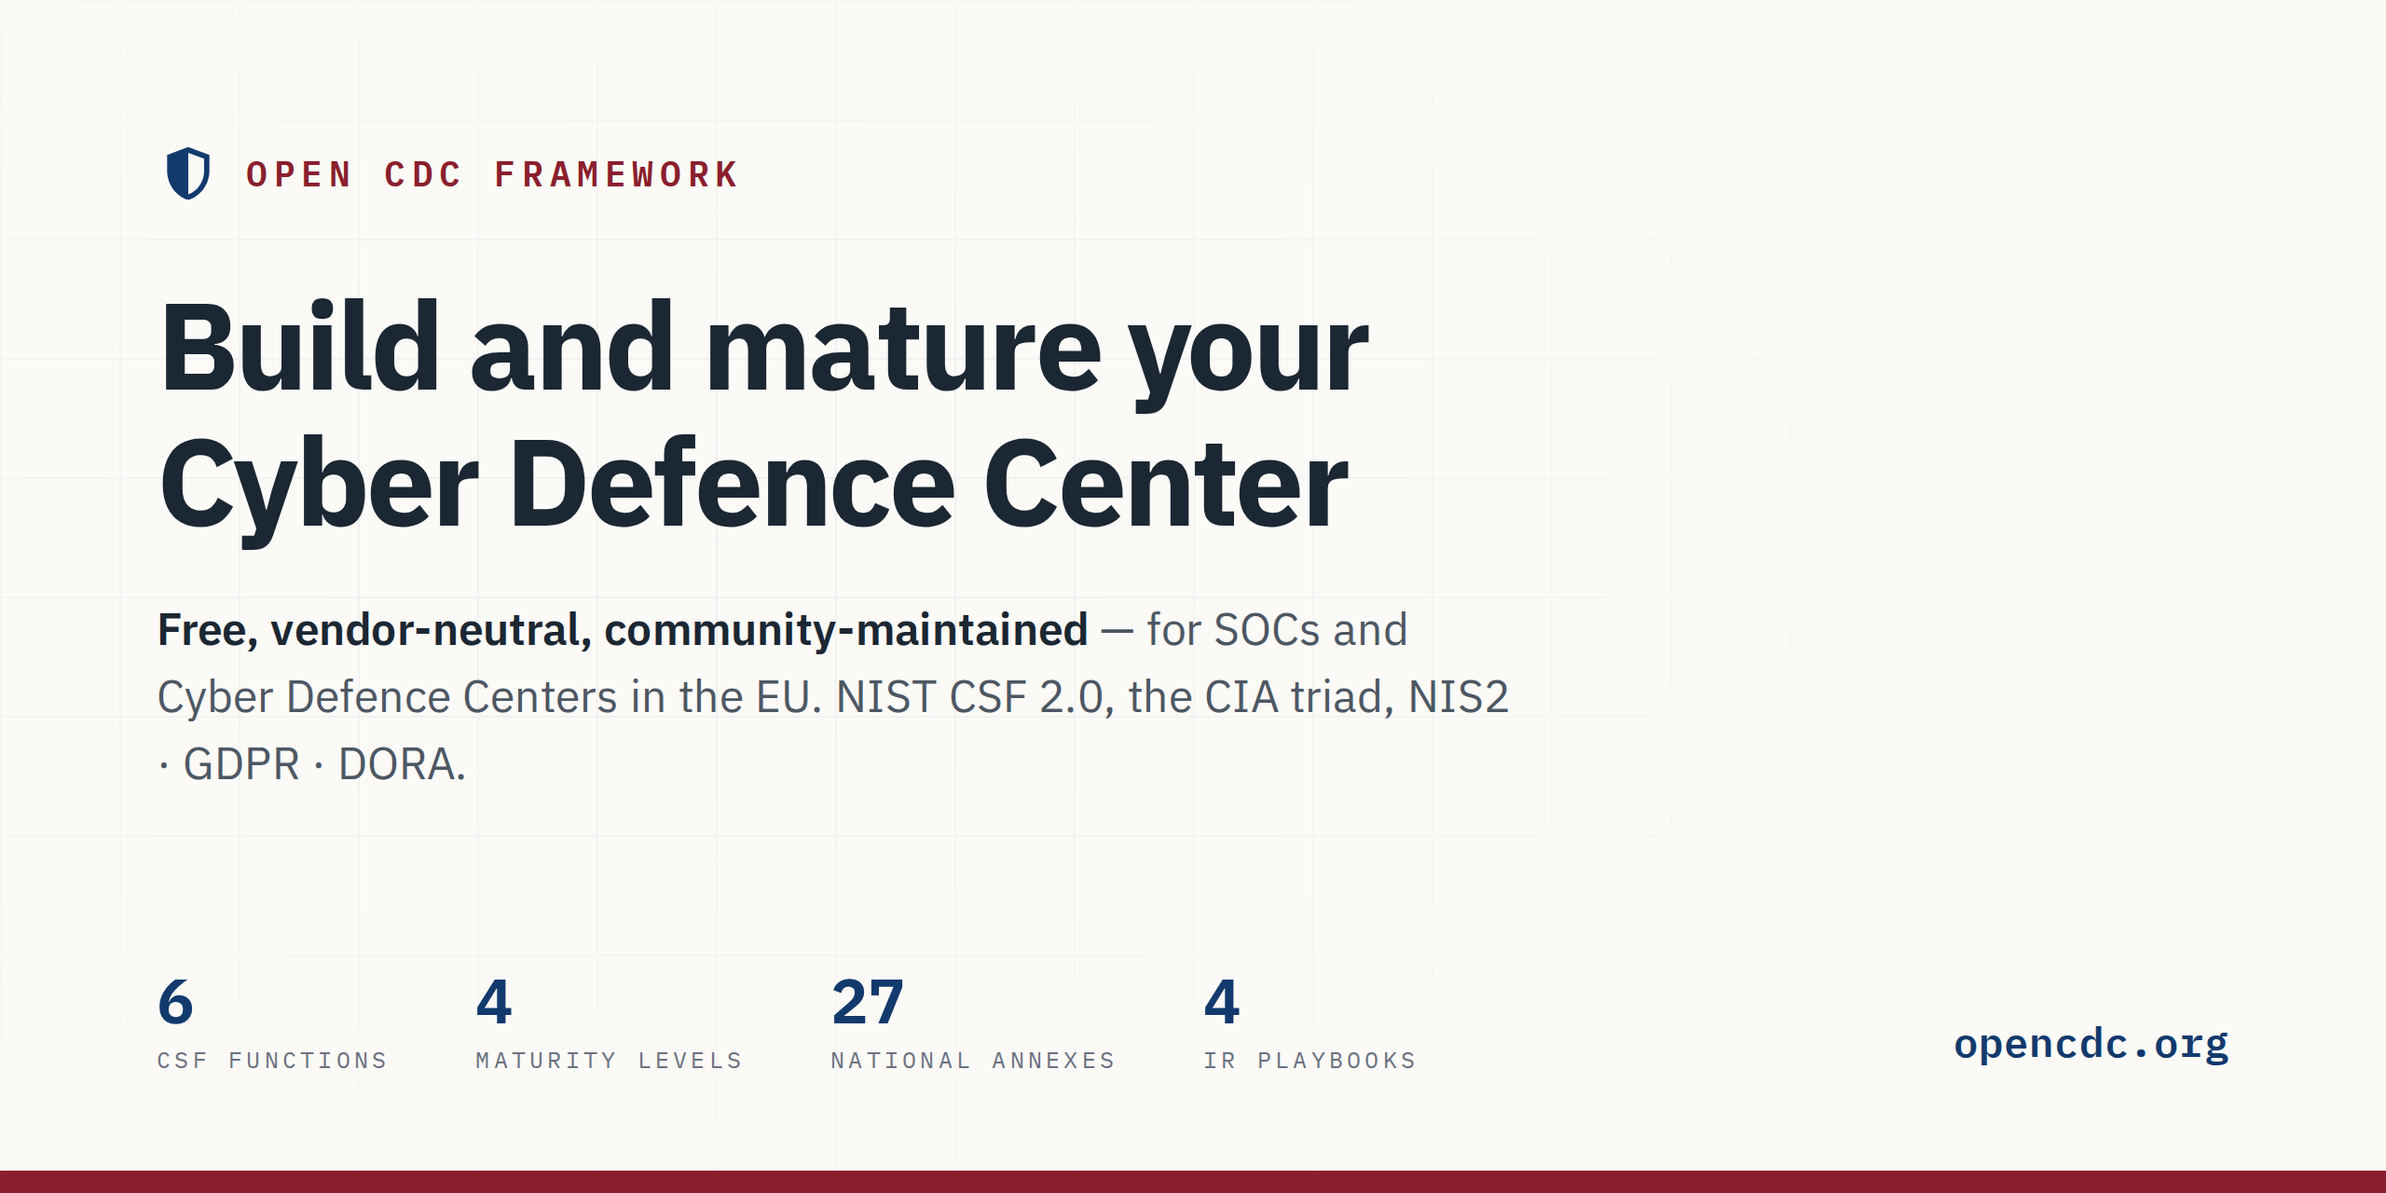
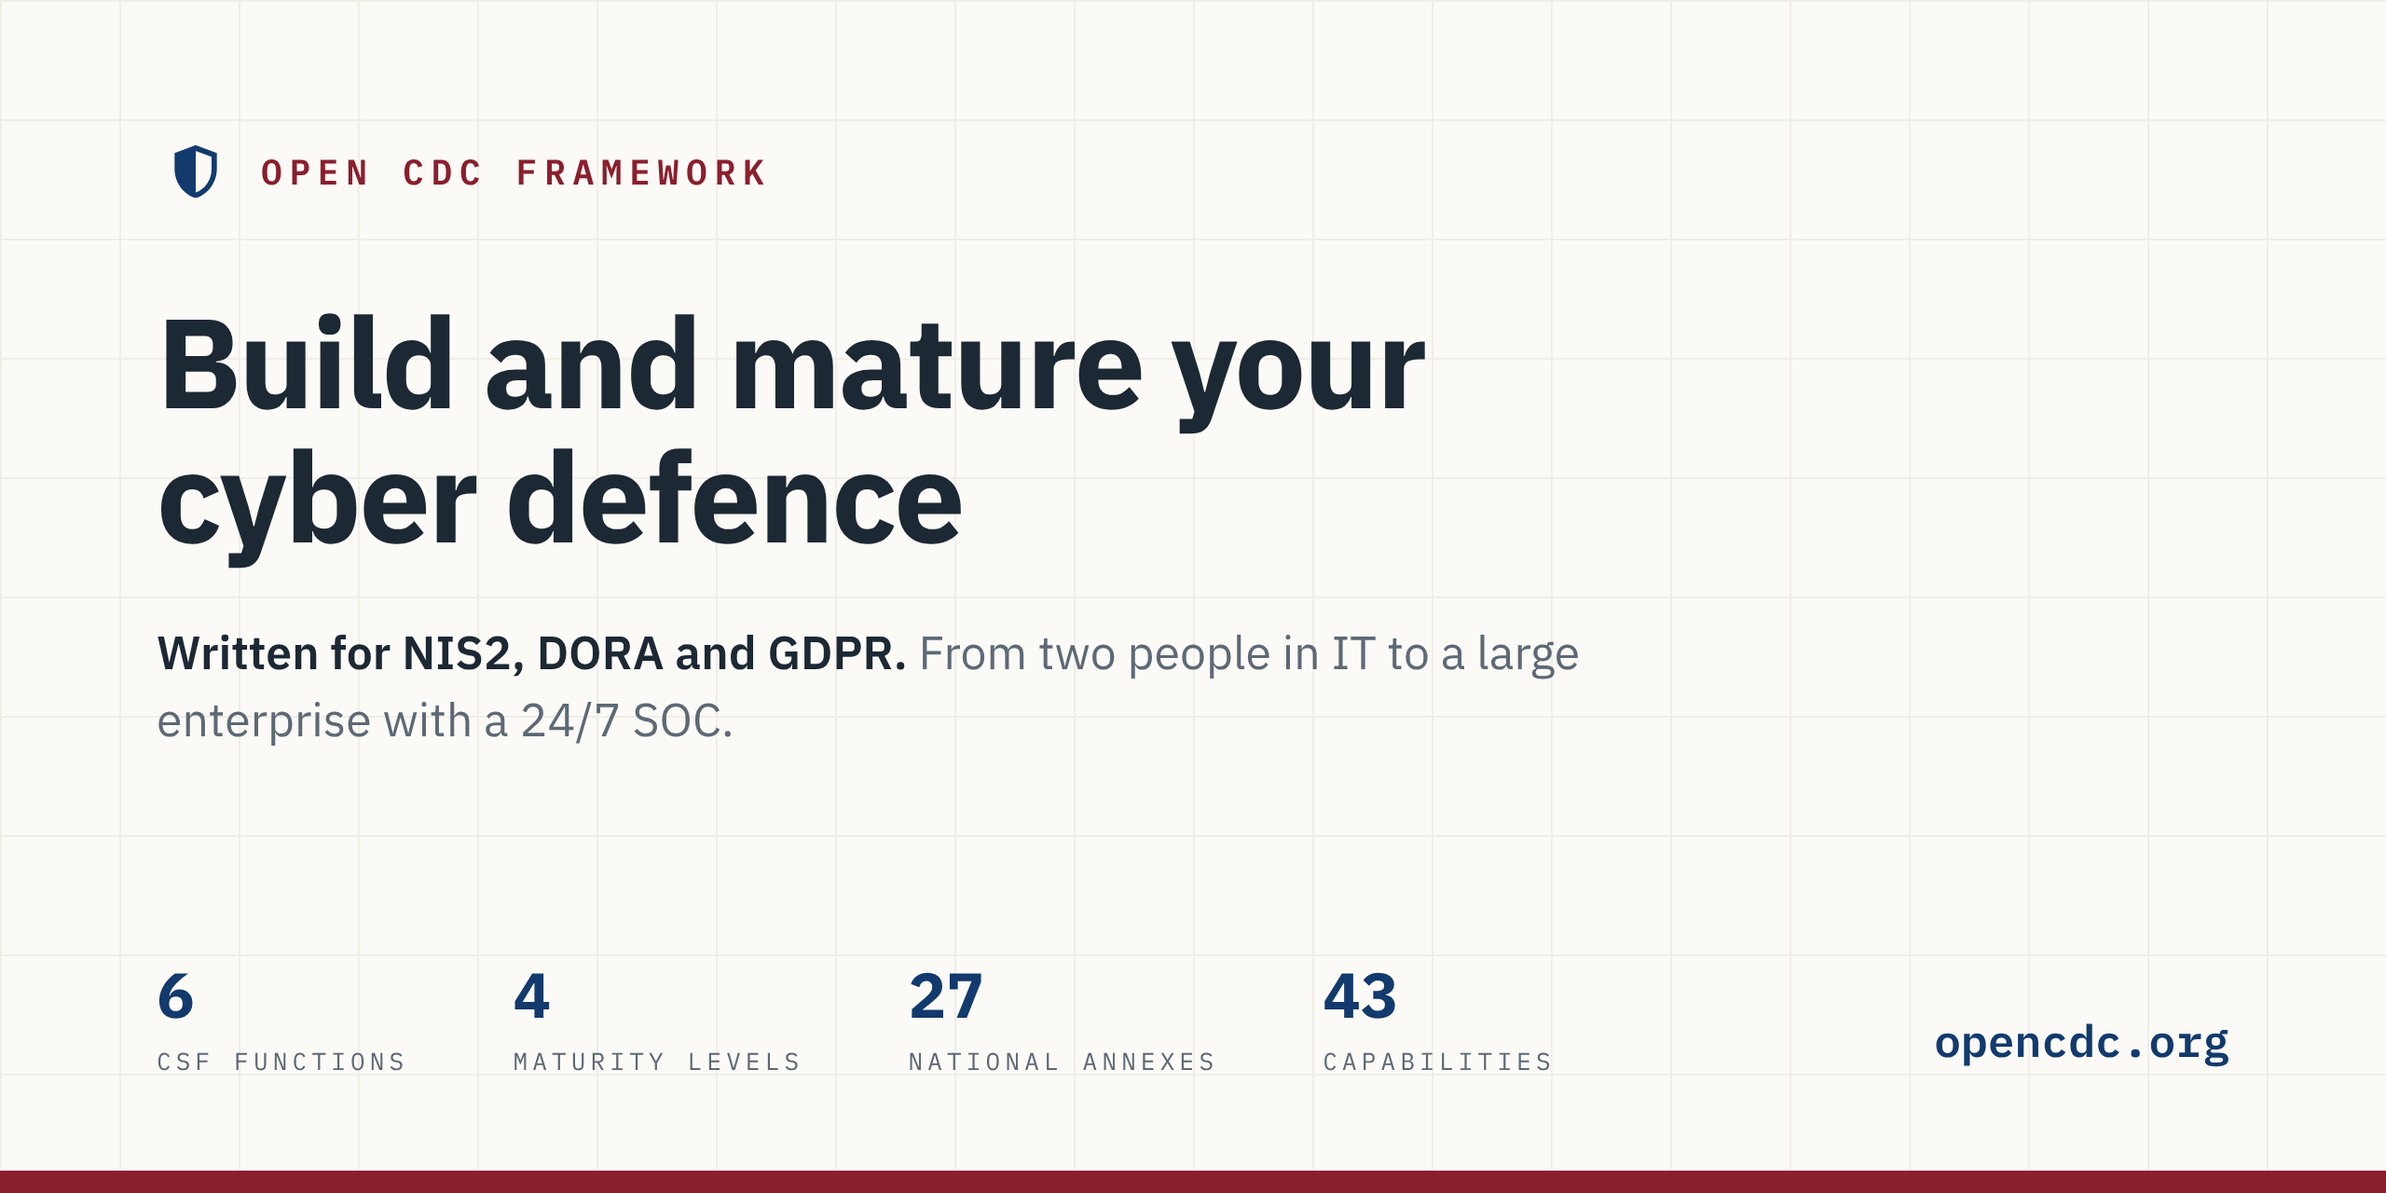
Release v1.4.1
Clearer landing page opening, centred section headings, current link preview card, dashes out of tool text, corrected annex list in PUBLISHING.

diff --git a/tools/regulatory-profile.html b/tools/regulatory-profile.html
@@ -196,15 +196,15 @@
 <aside aria-label="Law selection">
   <h2>EU-wide instruments</h2>
   <label class="law"><input type="checkbox" data-toggle="nis2" checked>
-    <span><b>NIS2 <span class="stamp">NIS2</span></b><small>Directive (EU) 2022/2555 — essential &amp; important entities</small></span></label>
+    <span><b>NIS2 <span class="stamp">NIS2</span></b><small>Directive (EU) 2022/2555: essential &amp; important entities</small></span></label>
   <label class="law"><input type="checkbox" data-toggle="gdpr" checked>
-    <span><b>GDPR <span class="stamp">GDPR</span></b><small>Regulation (EU) 2016/679 — applies to virtually all CDCs</small></span></label>
+    <span><b>GDPR <span class="stamp">GDPR</span></b><small>Regulation (EU) 2016/679: applies to virtually all CDCs</small></span></label>
   <label class="law"><input type="checkbox" data-toggle="dora">
-    <span><b>DORA <span class="stamp">DORA</span></b><small>Regulation (EU) 2022/2554 — financial entities</small></span></label>
+    <span><b>DORA <span class="stamp">DORA</span></b><small>Regulation (EU) 2022/2554: financial entities</small></span></label>
   <label class="law"><input type="checkbox" data-toggle="cra">
-    <span><b>Cyber Resilience Act <span class="stamp">CRA</span></b><small>Regulation (EU) 2024/2847 — products with digital elements</small></span></label>
+    <span><b>Cyber Resilience Act <span class="stamp">CRA</span></b><small>Regulation (EU) 2024/2847: products with digital elements</small></span></label>
   <label class="law"><input type="checkbox" data-toggle="cer">
-    <span><b>CER <span class="stamp">CER</span></b><small>Directive (EU) 2022/2557 — critical entities, physical resilience</small></span></label>
+    <span><b>CER <span class="stamp">CER</span></b><small>Directive (EU) 2022/2557: critical entities, physical resilience</small></span></label>
 
   <h2>Member states</h2>
   <p style="font-size:.75rem;color:var(--muted);margin:0 0 6px">Tick your country. Where national acts are mapped individually, they appear underneath so you can pick the ones that apply.</p>
@@ -346,7 +346,7 @@ const COUNTRIES = {
     "laws": [
      "cy-nat"
     ],
-    "regime": "Cyprus — national clocks",
+    "regime": "Cyprus: national clocks",
     "stamp": "CY",
     "trigger": "Significant incident, essential and important entities",
     "deadline": "Early warning ≤ 6 h; notification ≤ 72 h; progress report every 15 days while open; final report ≤ 15 days after restoration",
@@ -375,13 +375,13 @@ const COUNTRIES = {
     "id": "dk-nis2",
     "name": "NIS 2-loven",
     "stamp": "DK·NIS2",
-    "desc": "Lov nr. 434/2025 — horizontal Danish NIS2 act"
+    "desc": "Lov nr. 434/2025: horizontal Danish NIS2 act"
    },
    {
     "id": "dk-energi",
     "name": "Lov om styrket beredskab i energisektoren",
     "stamp": "DK·ENERGI",
-    "desc": "Lov nr. 258/2025 — energy sector, NIS2 + CER combined, five preparedness levels"
+    "desc": "Lov nr. 258/2025: energy sector, NIS2 and CER combined, five preparedness levels"
    },
    {
     "id": "dk-tele",
@@ -399,7 +399,7 @@ const COUNTRIES = {
     "id": "dk-fin",
     "name": "Lov om finansiel virksomhed § 333 ff.",
     "stamp": "DK·FIN",
-    "desc": "Financial sector, aligned with DORA — tick DORA above as well"
+    "desc": "Financial sector, aligned with DORA; tick DORA above as well"
    }
   ],
   "reporting": [
@@ -408,17 +408,17 @@ const COUNTRIES = {
      "dk-nis2",
      "dk-tele"
     ],
-    "regime": "Denmark — national channel",
+    "regime": "Denmark: national channel",
     "stamp": "DK",
     "trigger": "Significant incident, entities under NIS 2-loven or the tele act",
     "deadline": "NIS2 pattern: 24 h / 72 h / 1 month",
-    "recipient": "Via <b>virk.dk</b> — CSIRT function: SAMSIK"
+    "recipient": "Via <b>virk.dk</b>; CSIRT function: SAMSIK"
    },
    {
     "laws": [
      "dk-energi"
     ],
-    "regime": "Denmark — energy sector",
+    "regime": "Denmark: energy sector",
     "stamp": "DK·ENERGI",
     "trigger": "Significant incident, energy-sector entities",
     "deadline": "24 h / 72 h status / 1 month incident report",

diff --git a/site/extra.css b/site/extra.css
@@ -783,6 +783,21 @@ body.ocdf-fn-recover  { --ocdf-fn-current: var(--ocdf-fn-recover); }
   .md-typeset .ocdf-outputs > div + div .ocdf-phase { margin-top: 1.2rem; }
 }
 
+/* ------------------------------------------ landing: section heads */
+
+/* The hero is centred, so the section heads and their one-line leads under
+   it are centred too. Lists, cards and steps below them stay left-aligned. */
+
+.md-typeset .ocdf-hero ~ h2,
+.md-typeset .ocdf-hero ~ h2 + p {
+  text-align: center;
+}
+.md-typeset .ocdf-hero ~ h2 + p {
+  max-width: 40rem;
+  margin-left: auto;
+  margin-right: auto;
+}
+
 /* ------------------------------------------ landing: three axes */
 
 /* Three descriptions, in order: what is fixed (all six functions), how much

diff --git a/tools/maturity-assessment.html b/tools/maturity-assessment.html
@@ -1226,7 +1226,7 @@ document.getElementById("export-plan").addEventListener("click", exportPlan);
  * count and nothing else.
  * ------------------------------------------------------------------ */
 const BENCH_EMAIL = "benchmark@opencdc.org";
-const FRAMEWORK_VERSION = "1.4.0";
+const FRAMEWORK_VERSION = "1.4.1";
 let bench = null, benchErr = "";
 let benchGroup = "";
 fetch("benchmark.json", {cache:"no-cache"}).then(r => r.ok ? r.json() : Promise.reject(r.status))

diff --git a/tools/README.md b/tools/README.md
@@ -4,7 +4,7 @@ Three single-file, dependency-free pages that run entirely in the browser, with 
 account, no server and no data leaving the machine. Each works both online and as
 a local file.
 
-## regulatory-profile.html — Tool 01, interactive law selector
+## regulatory-profile.html: Tool 01, interactive law selector
 
 **[▸ Open the Regulatory Profile Selector](regulatory-profile.html)**
 
@@ -56,10 +56,10 @@ Besides the base fields `name`, `status`, `confidence`, `law`, `authority`, `csi
   "name": "Finland", "status": "In force", "law": "…", "authority": "…", "csirt": "…", "link": "…",
   "note": "Optional extra sentence for the country card.",
   "acts": [
-    {"id": "fi-kyber", "name": "Kyberturvallisuuslaki", "stamp": "FI·KYBER", "desc": "Act 124/2025 — horizontal NIS2 act"}
+    {"id": "fi-kyber", "name": "Kyberturvallisuuslaki", "stamp": "FI·KYBER", "desc": "Act 124/2025: horizontal NIS2 act"}
   ],
   "reporting": [
-    {"laws": ["fi-kyber"], "regime": "Finland — national channel", "stamp": "FI",
+    {"laws": ["fi-kyber"], "regime": "Finland: national channel", "stamp": "FI",
      "trigger": "…", "deadline": "…", "recipient": "…"}
   ],
   "hooks": {
@@ -77,7 +77,7 @@ Besides the base fields `name`, `status`, `confidence`, `law`, `authority`, `csi
 - Describe each act in the hand-written part of the country's annex, with its tag
   in the table, as `annex-dk.md` does.
 
-## skill-matrix.html — Tool 02, team skill matrix
+## skill-matrix.html: Tool 02, team skill matrix
 
 **[▸ Open the Team Skill Matrix](skill-matrix.html)**
 
@@ -121,7 +121,7 @@ both the sheet and the tool if you change skill IDs.
   for this project <https://opencdc.org/tools/skill-matrix.html>, and the download
   links to the templates resolve automatically.
 
-## maturity-assessment.html — Tool 03, interactive maturity self-assessment
+## maturity-assessment.html: Tool 03, interactive maturity self-assessment
 
 **[▸ Open the Maturity Self-Assessment](maturity-assessment.html)**
 
@@ -139,9 +139,9 @@ your targets, each of which jumps straight to the criterion. On a phone the
 results sit below the criteria, with a summary bar pinned to the bottom of the
 screen.
 
-- **Five-point status per criterion** — not considered / planned / partially in
-  place / implemented / implemented & evidenced, so work in flight is visible
-  without distorting the score. A toggle switches between counting
+- **Five-point status per criterion.** The states run from not considered through
+  planned, partially in place and implemented to implemented & evidenced, so
+  work in flight is visible without distorting the score. A toggle switches between counting
   "implemented" and the stricter evidence-based reading that counts only
   "implemented & evidenced". See the status scale in
   [`docs/maturity-model.md`](../docs/maturity-model.md).
@@ -166,10 +166,10 @@ screen.
 - **Target profiles** from [`docs/maturity-model.md`](../docs/maturity-model.md)'s
   target-setting table, covering SME, NIS2 important and essential, and critical infrastructure,
   pre-fill a target per function, individually adjustable.
-- **Score chart** — current level vs. target, per function, plus a Result table
+- **Score chart.** Current level vs. target, per function, plus a Result table
   and an Open actions list showing exactly which unmet criteria stand between
   you and your targets.
-- **Resume link** — the full assessment, meaning answers, evidence notes, targets and
+- **Resume link.** The full assessment, meaning answers, evidence notes, targets and
   the header fields, is encoded into the page's URL fragment, so the address bar
   always holds a unique link that restores exactly the current state. Copy it,
   mail it to yourself or paste it into a ticket, and continue later on any

diff --git a/PUBLISHING.md b/PUBLISHING.md
@@ -16,6 +16,7 @@ Approved project name: Open CDC Framework (OCDF). "Framework" refers to the capa
 - `v1.1.0` — 2026-09-23. Usability and scoring release; two DETECT criteria changed.
 - `v1.2.0` — 2026-10-11. Review release: criteria set 2 with the NIS2 legal floor at Level 2, 71 criteria; incident handling on DAIR; the IT/OT interface; alert triage and AI in the CDC; the first diagrams; plainer front page and README.
 - `v1.3.0` — 2026-10-27. Minor release: security fix for the maturity tool's file import and a pinned website build; vulnerability handling built for exploitation speed, with edge devices under PR-5 and a reworded IDENTIFY L3 criterion; end-to-end check of links, annexes and tools; one path through the framework; references updated and SANS 2026 research applied.
+- `v1.4.1` — 2026-11-02. Patch release: a clearer opening on the landing page, centred section headings there, a current link preview card and dashes removed from tool text.
 - `v1.4.0` — 2026-11-02. Presentation release: five diagrams, diagrams on phones, a sharper landing page, folded reference tables, the README rebuilt as the repository front page, SECURITY.md, and the plan for Material for MkDocs end of life. No criteria changes.
 
 ## Community benchmark
@@ -25,7 +26,7 @@ Approved project name: Open CDC Framework (OCDF). "Framework" refers to the capa
 
 ## Outstanding before the next release
 1. **Legal review of the reporting-deadline tables** and the national law references. Not done at v1.0.0; the release notes say so explicitly, and the site carries the "not legal advice" line on every page.
-2. **Re-verify the flagged annexes** — the index still marks nine as pending or needing verification, FR, IE, LU, ES, PL and NL among them. National transposition of NIS2 is still moving, so this is recurring work rather than a one-off.
+2. **Re-verify the flagged annexes.** The index marks five: FR, IE and ES as pending, MT and SI as needing verification. National transposition of NIS2 is still moving, so this is recurring work rather than a one-off.
 3. Announce on community channels before broadcast channels.
 
 ## Website platform: Material for MkDocs end of life

diff --git a/CHANGELOG.md b/CHANGELOG.md
@@ -1,5 +1,15 @@
 # Changelog
 
+## v1.4.1 — 2026-11-02
+
+A patch release: wording and presentation fixes only, no maturity criterion changes, so assessments made under v1.4.0 compare directly.
+
+- **A clearer opening.** The paragraph under the landing page title now names the gap the framework fills: standards say what security must cover and NIS2 says who is accountable, but neither shows how to build and run the team that detects and responds to attacks. The range reads from two people in IT to a large enterprise with a 24/7 SOC. The site description used by search engines says the same.
+- **Centred section headings.** The four section headings on the landing page, and the line under each, are centred to match the title above them.
+- **Current link preview.** The card shown when opencdc.org is shared still said "4 IR playbooks" and carried the old pitch. It now shows the title, the regulations, the range of teams and the same counts as the GitHub card.
+- **Dashes out of tool text.** The regulatory selector's law descriptions and the national data behind it, such as the Danish and Cypriot reporting channels, use a colon or semicolon instead of a dash, and so do the headings and feature list in the tools README.
+- **Corrected:** PUBLISHING.md listed nine annexes as flagged for re-verification; five are, FR, IE and ES pending, MT and SI needing verification.
+
 ## v1.4.0 — 2026-11-02
 
 A presentation release: no maturity criterion changes, so assessments made under v1.3.0 compare directly. It adds five diagrams, makes diagrams usable on phones, shortens the landing page and the longest pages, rebuilds the README and adds a security policy.

diff --git a/site/index.md b/site/index.md
@@ -12,10 +12,10 @@ hide:
 # Build and mature your cyber defence
 
 <p class="ocdf-lead" markdown>
-A free framework for the people who detect and respond to cyber attacks, from
-a 24/7 Cyber Defence Center to two people in IT. Standards say what security
-covers and NIS2 says what you must do. Neither says how to set up and run the
-team that does the work. OCDF does.
+Standards say what security must cover, and NIS2 says who is accountable.
+Neither shows how to build and run the team that detects and responds to
+attacks. This framework shows how, whether you are two people in IT or a large
+enterprise with a 24/7 SOC.
 </p>
 
 <div class="ocdf-cta" markdown>
@@ -213,7 +213,7 @@ through the seven steps to its first board report.
 
 <div class="ocdf-meta" markdown>
 
-**Version 1.4.0**, released 2 November 2026 · [Changelog](CHANGELOG.md) ·
+**Version 1.4.1**, released 2 November 2026 · [Changelog](CHANGELOG.md) ·
 [Source on GitHub](https://github.com/p0jst/OpenCDC).
 Written by Frederik B. Krogsgaard, formerly Senior Manager at the Norlys Cyber
 Defence Center, as an independent project.

diff --git a/README.md b/README.md
@@ -5,7 +5,7 @@
 **Build and run the team that detects and responds to cyber attacks.**<br>
 Written for NIS2, DORA and GDPR · All 27 EU member states · Free to use and adapt
 
-[![Version](https://img.shields.io/badge/version-v1.4.0-blue)](CHANGELOG.md)
+[![Version](https://img.shields.io/badge/version-v1.4.1-blue)](CHANGELOG.md)
 [![License: CC BY 4.0](https://img.shields.io/badge/License-CC%20BY%204.0-lightgrey.svg)](LICENSE)
 [![Website](https://img.shields.io/badge/website-opencdc.org-123a6d)](https://opencdc.org/)
 
@@ -113,7 +113,7 @@ mkdocs serve
 
 Corrections, national-law mappings and field feedback are welcome; see [Contributing](CONTRIBUTING.md). Report security problems in the site or the tools privately, as described in [Security](SECURITY.md).
 
-To cite: *Open CDC Framework (OCDF), version 1.4.0, 2026. Licensed CC BY 4.0. Available at: https://github.com/p0jst/OpenCDC.*
+To cite: *Open CDC Framework (OCDF), version 1.4.1, 2026. Licensed CC BY 4.0. Available at: https://github.com/p0jst/OpenCDC.*
 
 ## About
 

diff --git a/docs/trust.md b/docs/trust.md
@@ -60,7 +60,7 @@ not affiliated with any employer, NIST, ENISA, MITRE or any authority. See
 - Treat **Law** labels as a starting point for your lawyer, not a conclusion.
 - Treat **OCDF** and **Practitioner** content as a well-argued proposal. Where
   your context differs, your judgement wins, and the framework says so.
-- Cite the version shown on the front page, such as "Open CDC Framework v1.4.0".
+- Cite the version shown on the front page, such as "Open CDC Framework v1.4.1".
   Criteria can change between versions; the [changelog](../CHANGELOG.md) lists every change to scoring.
 - Report errors. Corrections, and second reviewers for the national annexes,
   are the most useful contributions. See [contributing](../CONTRIBUTING.md).

diff --git a/docs/references.md b/docs/references.md
@@ -107,7 +107,7 @@ SANS survey and white-paper findings are used as context and data points, not as
 
 ## How to cite this framework
 
-> Open CDC Framework (OCDF), version 1.4.0, 2026. Licensed CC BY 4.0. Available at: https://github.com/p0jst/OpenCDC.
+> Open CDC Framework (OCDF), version 1.4.1, 2026. Licensed CC BY 4.0. Available at: https://github.com/p0jst/OpenCDC.
 
 ## Corrections
 
